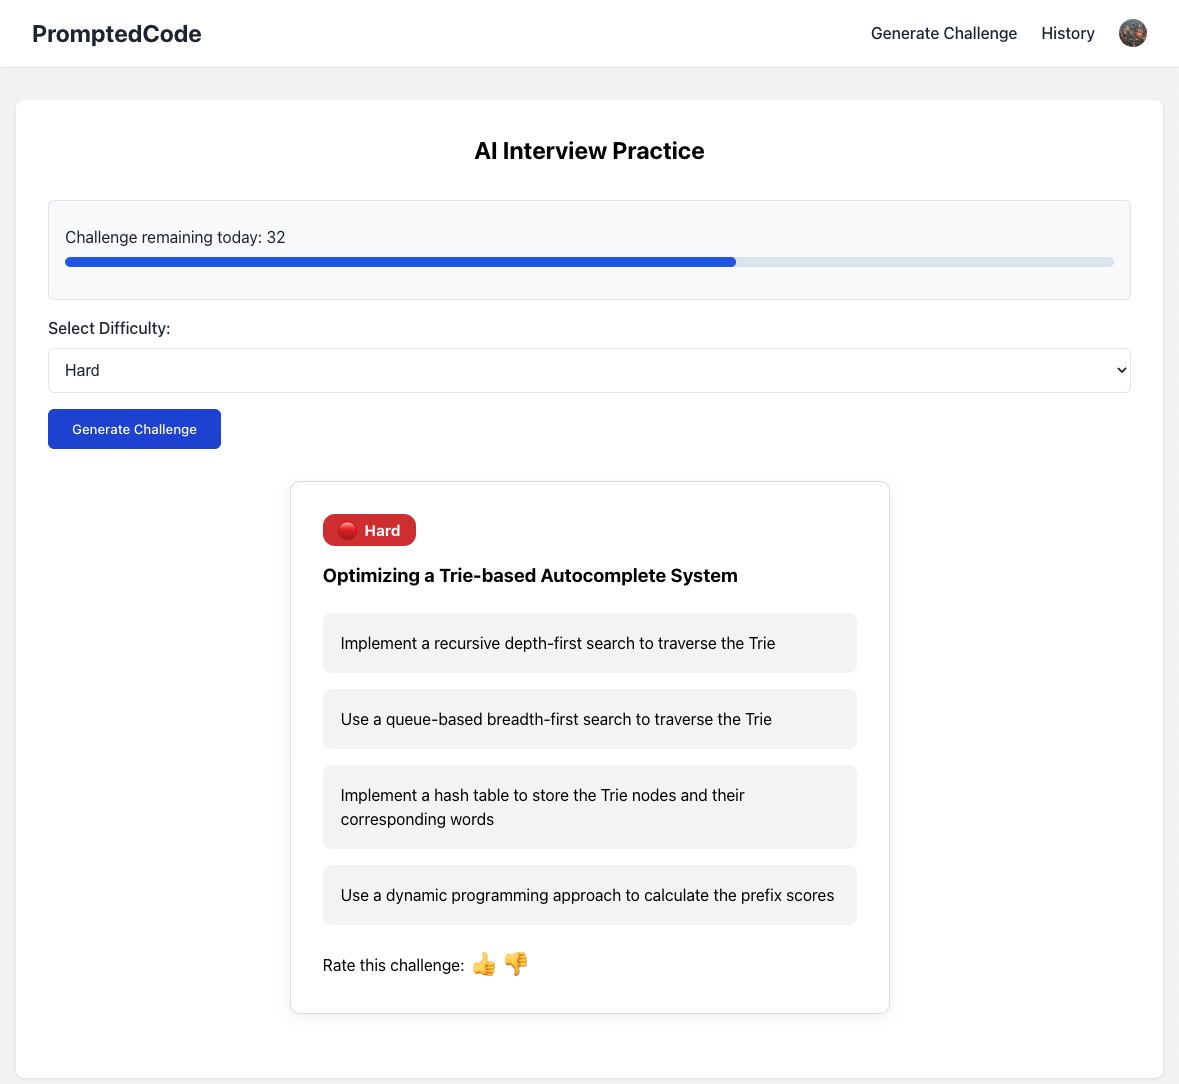
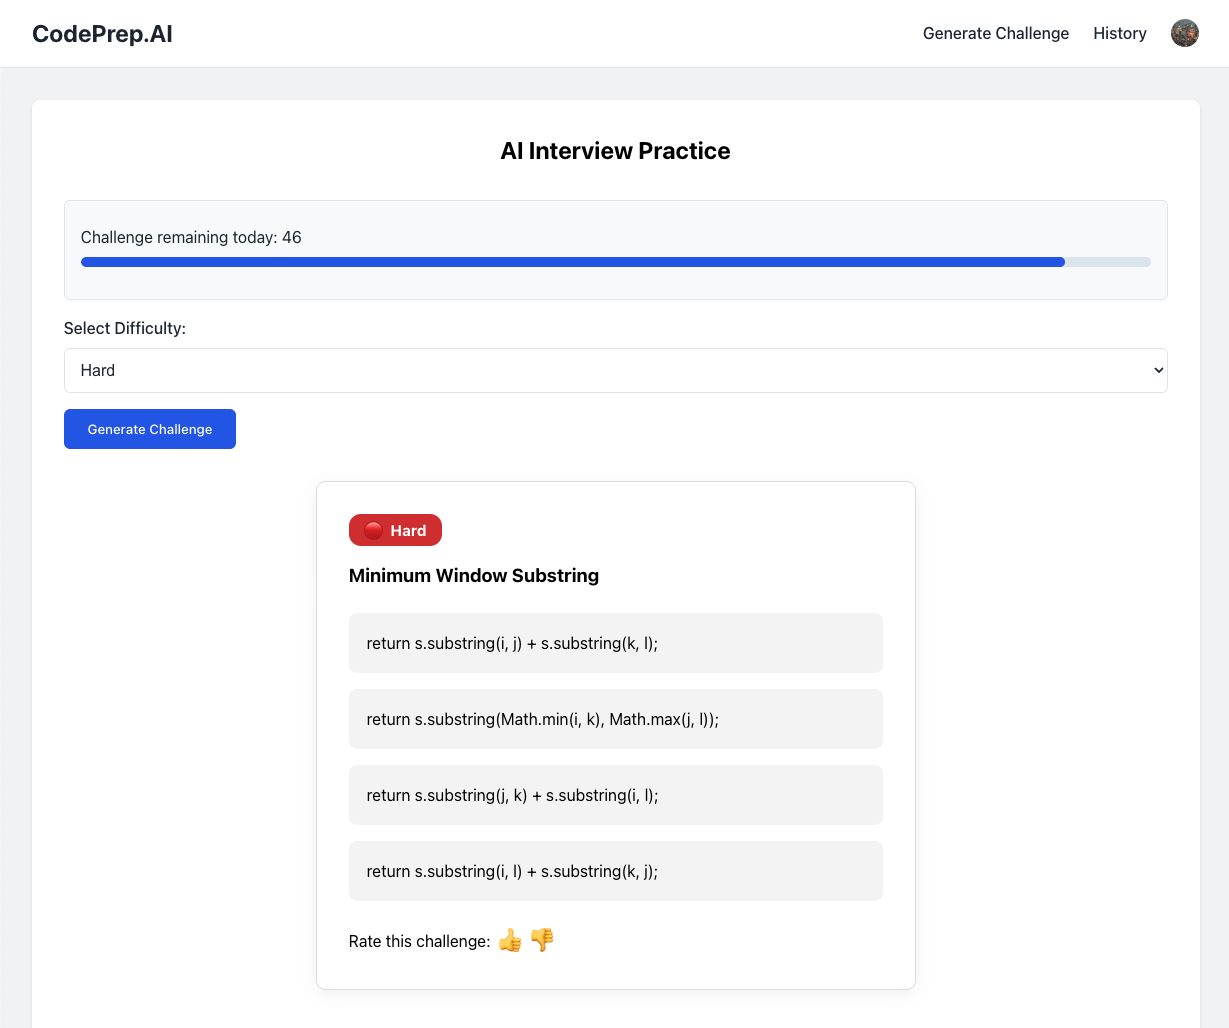
Updated repo name to CodePrep.AI

diff --git a/frontend/src/layout/Layout.jsx b/frontend/src/layout/Layout.jsx
@@ -9,7 +9,7 @@ export function Layout() {
       {/* App header with title and navigation */}
       <header className="app-header">
         <div className="header-content">
-          <h1>PromptedCode</h1>
+          <h1>CodePrep.AI</h1>
           <nav>
             {/* Show navigation links and user button only when signed in */}
             <SignedIn>

diff --git a/README.md b/README.md
@@ -1,4 +1,4 @@
-# CodePrep.AI
+# CodePrep.AI: AI Coding Interview Prep
 
 [![Build Status](https://img.shields.io/badge/build-passing-brightgreen)](https://github.com/ethanvillalovoz/llm-coding-challenge-generator/actions)
 [![License](https://img.shields.io/badge/license-MIT-blue.svg)](LICENSE)
